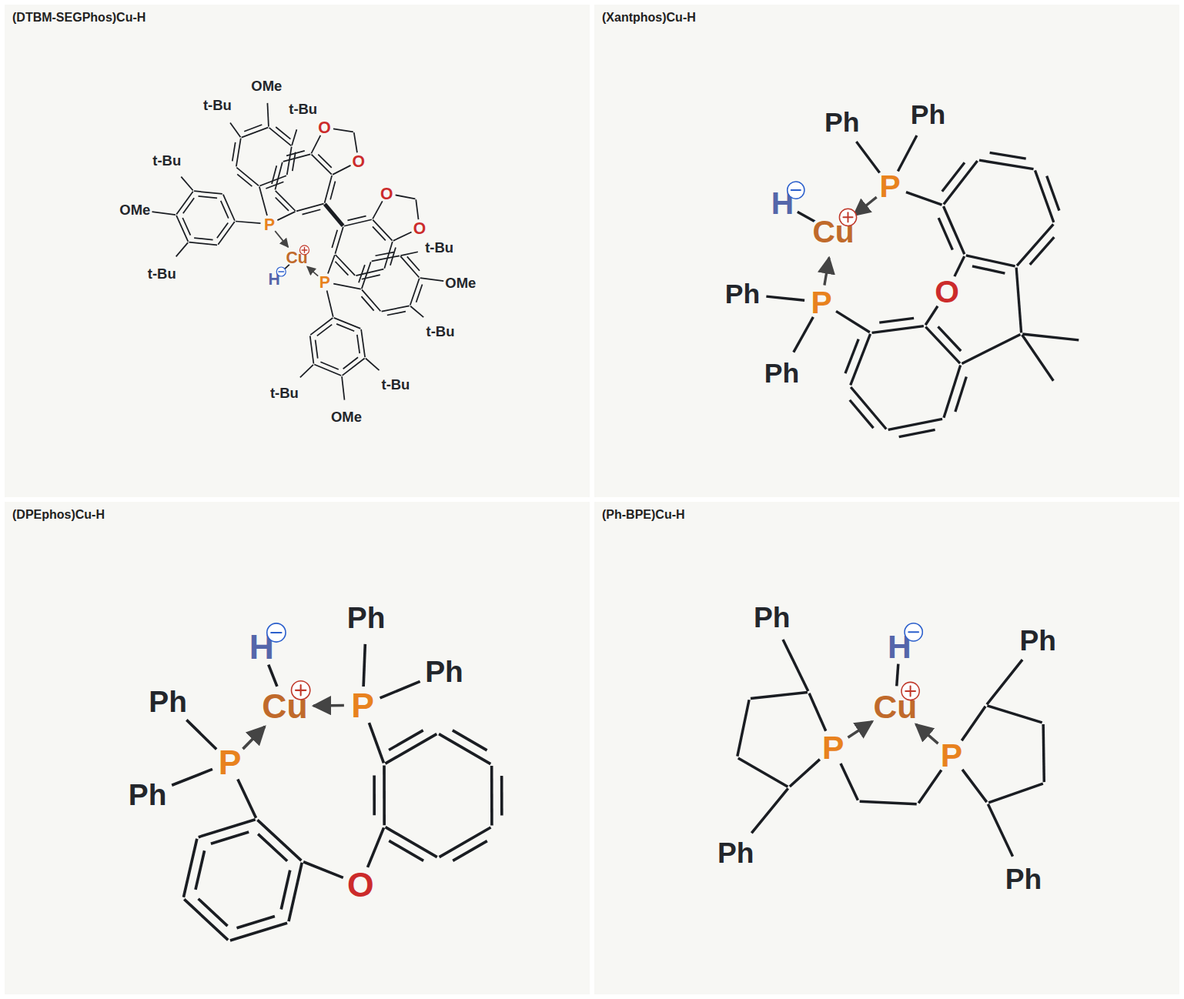
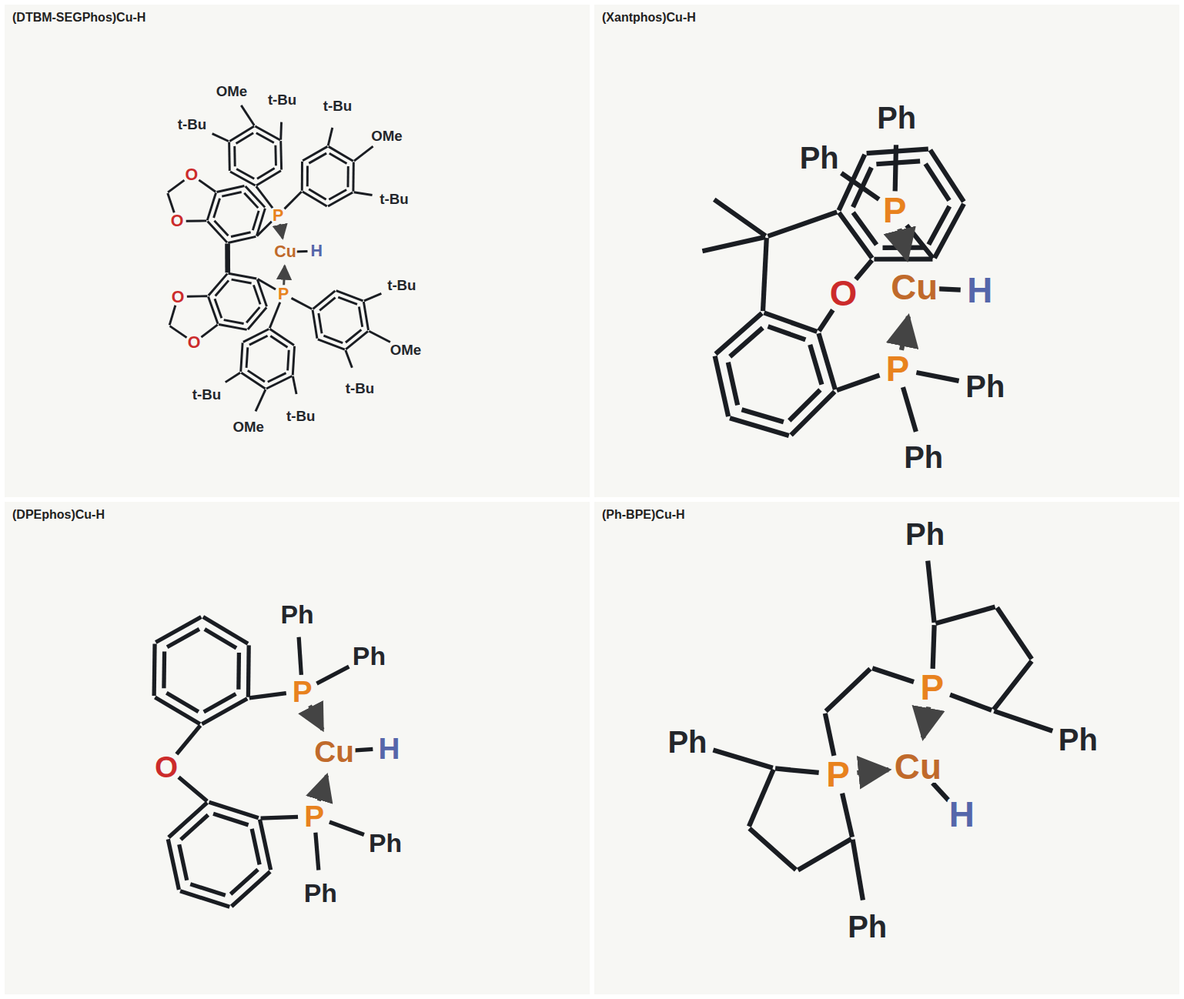
metaldepict: ChemDraw bond style fixes + CuH alignment + stereo wedges
Per reference feedback:
- thicker bonds; double bonds drawn on the INSIDE of each ring (toward centroid)
- Cu-H bond aligned horizontal with H to the right (rigid rotation of all
  coordinates + rebuild, so geometry/overlap are untouched)
- no charges on Cu or H (formal charges only, elsewhere)
- wedge/dash from RDKit on real sp3 stereocentres (e.g. Ph-BPE), assigned AFTER
  the 2D layout so CoordGen placement is never perturbed; biaryl axis stays bold
- generalised panels regenerated for DTBM-SEGPhos, Xantphos, DPEphos, Ph-BPE

Note: creating a separate GitHub repo was attempted but blocked (403, read-only
integration), so work continues in this repo.

Claude-Session: https://claude.ai/code/session_01VEr4Hixwf6YDK6DNqMg3Gi

diff --git a/metaldepict/viewer/data/ph_bpe.js b/metaldepict/viewer/data/ph_bpe.js
@@ -1,2 +1,2 @@
 // auto-generated -- window.MOLECULE for ph_bpe
-window.MOLECULE = {"meta": {"name": "(Ph-BPE)Cu-H", "formula": "C34H37CuP2", "smiles": "c1ccc(C2CCC(c3ccccc3)P2CCP2C(c3ccccc3)CCC2c2ccccc2)cc1", "conformer_method": "rdkit-etkdg", "trex": {"source": "fallback", "metal": "Cu", "ox": 1, "spin": 1, "geometry": "trpl", "geometry_name": "trigonal planar", "cn": 3, "trex_string": "Cu{1} | L=[ SMILES:<DTBM-SEGPhos>, SMILES:[H-] ] | MAP:{ ; 1:<P>, 1:<P>, 2:1 } | G:trpl   (illustrative; real donor indices come from canonical_known_trex)", "chirality": null, "is_chiral": true, "delta_lambda": null, "note": "axial chirality lives in the biaryl backbone, not the metal", "error": "trex perception failed: No metal\u2013ligand bonds detected from XYZ topology.", "canonical": {"available": true, "canonicalised": true, "string": "Cu{+1,S=1} | L=[ SMILES:c1ccc(C2CCC(c3ccccc3)P2CCP2C(c3ccccc3)CCC2c2ccccc2)cc1, SMILES:[H-] ] | MAP:{ 1:15, 1:18, 2:1 }", "cn": 3, "geometry": "trpl"}, "is_chiral_overall": false}, "ideal_bond": {"aromatic": 1.39, "single": 1.5, "double": 1.34, "C-O": 1.43, "C-P": 1.83, "P-metal": 2.25, "H-metal": 1.5}, "n_atoms": 38, "description": "(DTBM-SEGPhos)Cu-H : bidentate phosphine chelate, trigonal Cu(I) hydride"}, "metal": {"id": 36, "el": "Cu", "cn": 3, "donors": [2, 19], "hydride": 37, "geometry": "trpl", "geometry_name": "trigonal planar", "trex_perceived_geometry": "trigonal planar", "trex_perceived_cn": 3}, "atoms": [{"id": 0, "el": "C", "x": -0.9224, "y": -1.1566, "z": 0.301, "charge": 0, "charge_ionic": 0, "aromatic": false, "nH": 2, "sym_class": 25, "role": "backbone", "angle_deg": 109.5, "group_l1": null, "group_l2": null}, {"id": 1, "el": "C", "x": 0.01, "y": -1.49, "z": 0.0885, "charge": 0, "charge_ionic": 0, "aromatic": false, "nH": 2, "sym_class": 25, "role": "backbone", "angle_deg": 109.5, "group_l1": null, "group_l2": null}, {"id": 2, "el": "P", "x": 0.6178, "y": -0.6968, "z": -0.2383, "charge": 0, "charge_ionic": 0, "aromatic": false, "nH": 0, "sym_class": 36, "role": "donor", "angle_deg": 109.5, "group_l1": null, "group_l2": null}, {"id": 3, "el": "C", "x": 1.2246, "y": -1.4954, "z": -0.4009, "charge": 0, "charge_ionic": 0, "aromatic": false, "nH": 1, "sym_class": 31, "role": "backbone", "angle_deg": 109.5, "group_l1": null, "group_l2": null}, {"id": 4, "el": "C", "x": 0.7346, "y": -2.682, "z": -0.3805, "charge": 0, "charge_ionic": 0, "aromatic": true, "nH": 0, "sym_class": 27, "role": "backbone", "angle_deg": 120.0, "group_l1": "g1_ph", "group_l2": null}, {"id": 5, "el": "C", "x": -0.2602, "y": -2.789, "z": -0.2285, "charge": 0, "charge_ionic": 0, "aromatic": true, "nH": 1, "sym_class": 13, "role": "backbone", "angle_deg": 120.0, "group_l1": "g1_ph", "group_l2": null}, {"id": 6, "el": "C", "x": -0.6692, "y": -3.7018, "z": -0.2138, "charge": 0, "charge_ionic": 0, "aromatic": true, "nH": 1, "sym_class": 5, "role": "backbone", "angle_deg": 120.0, "group_l1": "g1_ph", "group_l2": null}, {"id": 7, "el": "C", "x": -0.0796, "y": -4.5094, "z": -0.352, "charge": 0, "charge_ionic": 0, "aromatic": true, "nH": 1, "sym_class": 1, "role": "backbone", "angle_deg": 120.0, "group_l1": "g1_ph", "group_l2": null}, {"id": 8, "el": "C", "x": 0.9152, "y": -4.4064, "z": -0.5069, "charge": 0, "charge_ionic": 0, "aromatic": true, "nH": 1, "sym_class": 5, "role": "backbone", "angle_deg": 120.0, "group_l1": "g1_ph", "group_l2": null}, {"id": 9, "el": "C", "x": 1.32, "y": -3.4918, "z": -0.5233, "charge": 0, "charge_ionic": 0, "aromatic": true, "nH": 1, "sym_class": 13, "role": "backbone", "angle_deg": 120.0, "group_l1": "g1_ph", "group_l2": null}, {"id": 10, "el": "C", "x": 2.174, "y": -1.1592, "z": -0.7818, "charge": 0, "charge_ionic": 0, "aromatic": false, "nH": 2, "sym_class": 21, "role": "backbone", "angle_deg": 109.5, "group_l1": null, "group_l2": null}, {"id": 11, "el": "C", "x": 2.1542, "y": -0.1476, "z": -0.813, "charge": 0, "charge_ionic": 0, "aromatic": false, "nH": 2, "sym_class": 21, "role": "backbone", "angle_deg": 109.5, "group_l1": null, "group_l2": null}, {"id": 12, "el": "C", "x": 1.194, "y": 0.1448, "z": -0.6484, "charge": 0, "charge_ionic": 0, "aromatic": false, "nH": 1, "sym_class": 31, "role": "backbone", "angle_deg": 109.5, "group_l1": null, "group_l2": null}, {"id": 13, "el": "C", "x": 0.4854, "y": 3.0046, "z": -0.5903, "charge": 0, "charge_ionic": 0, "aromatic": true, "nH": 0, "sym_class": 27, "role": "backbone", "angle_deg": 120.0, "group_l1": "g2_ph", "group_l2": null}, {"id": 14, "el": "C", "x": 1.2152, "y": 3.6992, "z": -0.5997, "charge": 0, "charge_ionic": 0, "aromatic": true, "nH": 1, "sym_class": 13, "role": "backbone", "angle_deg": 120.0, "group_l1": "g2_ph", "group_l2": null}, {"id": 15, "el": "C", "x": 0.9814, "y": 4.6752, "z": -0.5453, "charge": 0, "charge_ionic": 0, "aromatic": true, "nH": 1, "sym_class": 5, "role": "backbone", "angle_deg": 120.0, "group_l1": "g2_ph", "group_l2": null}, {"id": 16, "el": "C", "x": 0.025, "y": 4.9588, "z": -0.475, "charge": 0, "charge_ionic": 0, "aromatic": true, "nH": 1, "sym_class": 1, "role": "backbone", "angle_deg": 120.0, "group_l1": "g2_ph", "group_l2": null}, {"id": 17, "el": "C", "x": -0.7018, "y": 4.2708, "z": -0.4617, "charge": 0, "charge_ionic": 0, "aromatic": true, "nH": 1, "sym_class": 5, "role": "backbone", "angle_deg": 120.0, "group_l1": "g2_ph", "group_l2": null}, {"id": 18, "el": "C", "x": -0.468, "y": 3.2906, "z": -0.5196, "charge": 0, "charge_ionic": 0, "aromatic": true, "nH": 1, "sym_class": 13, "role": "backbone", "angle_deg": 120.0, "group_l1": "g2_ph", "group_l2": null}, {"id": 19, "el": "P", "x": -0.8888, "y": -0.1602, "z": 0.2711, "charge": 0, "charge_ionic": 0, "aromatic": false, "nH": 0, "sym_class": 36, "role": "donor", "angle_deg": 109.5, "group_l1": null, "group_l2": null}, {"id": 20, "el": "C", "x": -0.7606, "y": 0.8446, "z": 0.6798, "charge": 0, "charge_ionic": 0, "aromatic": false, "nH": 1, "sym_class": 31, "role": "backbone", "angle_deg": 109.5, "group_l1": null, "group_l2": null}, {"id": 21, "el": "C", "x": 1.3726, "y": 2.0604, "z": 0.7067, "charge": 0, "charge_ionic": 0, "aromatic": true, "nH": 0, "sym_class": 27, "role": "backbone", "angle_deg": 120.0, "group_l1": "g3_ph", "group_l2": null}, {"id": 22, "el": "C", "x": 2.2428, "y": 1.5676, "z": 0.5126, "charge": 0, "charge_ionic": 0, "aromatic": true, "nH": 1, "sym_class": 13, "role": "backbone", "angle_deg": 120.0, "group_l1": "g3_ph", "group_l2": null}, {"id": 23, "el": "C", "x": 3.1098, "y": 2.0766, "z": 0.524, "charge": 0, "charge_ionic": 0, "aromatic": true, "nH": 1, "sym_class": 5, "role": "backbone", "angle_deg": 120.0, "group_l1": "g3_ph", "group_l2": null}, {"id": 24, "el": "C", "x": 3.1068, "y": 3.0778, "z": 0.7246, "charge": 0, "charge_ionic": 0, "aromatic": true, "nH": 1, "sym_class": 1, "role": "backbone", "angle_deg": 120.0, "group_l1": "g3_ph", "group_l2": null}, {"id": 25, "el": "C", "x": 2.2356, "y": 3.5686, "z": 0.9168, "charge": 0, "charge_ionic": 0, "aromatic": true, "nH": 1, "sym_class": 5, "role": "backbone", "angle_deg": 120.0, "group_l1": "g3_ph", "group_l2": null}, {"id": 26, "el": "C", "x": 1.3674, "y": 3.0564, "z": 0.9094, "charge": 0, "charge_ionic": 0, "aromatic": true, "nH": 1, "sym_class": 13, "role": "backbone", "angle_deg": 120.0, "group_l1": "g3_ph", "group_l2": null}, {"id": 27, "el": "C", "x": -1.6694, "y": 1.2654, "z": 1.0, "charge": 0, "charge_ionic": 0, "aromatic": false, "nH": 2, "sym_class": 21, "role": "backbone", "angle_deg": 109.5, "group_l1": null, "group_l2": null}, {"id": 28, "el": "C", "x": -2.355, "y": 0.5262, "z": 0.8803, "charge": 0, "charge_ionic": 0, "aromatic": false, "nH": 2, "sym_class": 21, "role": "backbone", "angle_deg": 109.5, "group_l1": null, "group_l2": null}, {"id": 29, "el": "C", "x": -1.8716, "y": -0.3536, "z": 0.5145, "charge": 0, "charge_ionic": 0, "aromatic": false, "nH": 1, "sym_class": 31, "role": "backbone", "angle_deg": 109.5, "group_l1": null, "group_l2": null}, {"id": 30, "el": "C", "x": -2.2812, "y": -1.3956, "z": 0.3025, "charge": 0, "charge_ionic": 0, "aromatic": true, "nH": 0, "sym_class": 27, "role": "backbone", "angle_deg": 120.0, "group_l1": "g4_ph", "group_l2": null}, {"id": 31, "el": "C", "x": -3.2698, "y": -1.5438, "z": 0.2615, "charge": 0, "charge_ionic": 0, "aromatic": true, "nH": 1, "sym_class": 13, "role": "backbone", "angle_deg": 120.0, "group_l1": "g4_ph", "group_l2": null}, {"id": 32, "el": "C", "x": -3.6402, "y": -2.4728, "z": 0.0721, "charge": 0, "charge_ionic": 0, "aromatic": true, "nH": 1, "sym_class": 5, "role": "backbone", "angle_deg": 120.0, "group_l1": "g4_ph", "group_l2": null}, {"id": 33, "el": "C", "x": -3.0182, "y": -3.2554, "z": -0.0769, "charge": 0, "charge_ionic": 0, "aromatic": true, "nH": 1, "sym_class": 1, "role": "backbone", "angle_deg": 120.0, "group_l1": "g4_ph", "group_l2": null}, {"id": 34, "el": "C", "x": -2.0284, "y": -3.1114, "z": -0.035, "charge": 0, "charge_ionic": 0, "aromatic": true, "nH": 1, "sym_class": 5, "role": "backbone", "angle_deg": 120.0, "group_l1": "g4_ph", "group_l2": null}, {"id": 35, "el": "C", "x": -1.6616, "y": -2.1808, "z": 0.1551, "charge": 0, "charge_ionic": 0, "aromatic": true, "nH": 1, "sym_class": 13, "role": "backbone", "angle_deg": 120.0, "group_l1": "g4_ph", "group_l2": null}, {"id": 36, "el": "Cu", "x": 0.0606, "y": 0.1134, "z": -0.2966, "charge": 0, "charge_ionic": 1, "aromatic": false, "nH": 0, "sym_class": 35, "role": "metal", "angle_deg": 120.0, "group_l1": null, "group_l2": null}, {"id": 37, "el": "H", "x": 0.347, "y": 0.6778, "z": -0.133, "charge": 0, "charge_ionic": -1, "aromatic": false, "nH": 0, "sym_class": 0, "role": "hydride", "angle_deg": 120.0, "group_l1": null, "group_l2": null}], "bonds": [{"a": 0, "b": 1, "a0": 0, "order": 1.0, "type": "single", "wedge": "none", "axis": false}, {"a": 1, "b": 2, "a0": 1, "order": 1.0, "type": "single", "wedge": "none", "axis": false}, {"a": 2, "b": 3, "a0": 2, "order": 1.0, "type": "single", "wedge": "none", "axis": false}, {"a": 3, "b": 4, "a0": 3, "order": 1.0, "type": "single", "wedge": "none", "axis": false}, {"a": 4, "b": 5, "a0": 4, "order": 1.5, "type": "aromatic", "wedge": "none", "axis": false}, {"a": 5, "b": 6, "a0": 5, "order": 1.5, "type": "aromatic", "wedge": "none", "axis": false}, {"a": 6, "b": 7, "a0": 6, "order": 1.5, "type": "aromatic", "wedge": "none", "axis": false}, {"a": 7, "b": 8, "a0": 7, "order": 1.5, "type": "aromatic", "wedge": "none", "axis": false}, {"a": 8, "b": 9, "a0": 8, "order": 1.5, "type": "aromatic", "wedge": "none", "axis": false}, {"a": 3, "b": 10, "a0": 3, "order": 1.0, "type": "single", "wedge": "none", "axis": false}, {"a": 10, "b": 11, "a0": 10, "order": 1.0, "type": "single", "wedge": "none", "axis": false}, {"a": 11, "b": 12, "a0": 11, "order": 1.0, "type": "single", "wedge": "none", "axis": false}, {"a": 12, "b": 13, "a0": 12, "order": 1.0, "type": "single", "wedge": "none", "axis": false}, {"a": 13, "b": 14, "a0": 13, "order": 1.5, "type": "aromatic", "wedge": "none", "axis": false}, {"a": 14, "b": 15, "a0": 14, "order": 1.5, "type": "aromatic", "wedge": "none", "axis": false}, {"a": 15, "b": 16, "a0": 15, "order": 1.5, "type": "aromatic", "wedge": "none", "axis": false}, {"a": 16, "b": 17, "a0": 16, "order": 1.5, "type": "aromatic", "wedge": "none", "axis": false}, {"a": 17, "b": 18, "a0": 17, "order": 1.5, "type": "aromatic", "wedge": "none", "axis": false}, {"a": 0, "b": 19, "a0": 0, "order": 1.0, "type": "single", "wedge": "none", "axis": false}, {"a": 19, "b": 20, "a0": 19, "order": 1.0, "type": "single", "wedge": "none", "axis": false}, {"a": 20, "b": 21, "a0": 20, "order": 1.0, "type": "single", "wedge": "none", "axis": false}, {"a": 21, "b": 22, "a0": 21, "order": 1.5, "type": "aromatic", "wedge": "none", "axis": false}, {"a": 22, "b": 23, "a0": 22, "order": 1.5, "type": "aromatic", "wedge": "none", "axis": false}, {"a": 23, "b": 24, "a0": 23, "order": 1.5, "type": "aromatic", "wedge": "none", "axis": false}, {"a": 24, "b": 25, "a0": 24, "order": 1.5, "type": "aromatic", "wedge": "none", "axis": false}, {"a": 25, "b": 26, "a0": 25, "order": 1.5, "type": "aromatic", "wedge": "none", "axis": false}, {"a": 20, "b": 27, "a0": 20, "order": 1.0, "type": "single", "wedge": "none", "axis": false}, {"a": 27, "b": 28, "a0": 27, "order": 1.0, "type": "single", "wedge": "none", "axis": false}, {"a": 28, "b": 29, "a0": 28, "order": 1.0, "type": "single", "wedge": "none", "axis": false}, {"a": 29, "b": 30, "a0": 29, "order": 1.0, "type": "single", "wedge": "none", "axis": false}, {"a": 30, "b": 31, "a0": 30, "order": 1.5, "type": "aromatic", "wedge": "none", "axis": false}, {"a": 31, "b": 32, "a0": 31, "order": 1.5, "type": "aromatic", "wedge": "none", "axis": false}, {"a": 32, "b": 33, "a0": 32, "order": 1.5, "type": "aromatic", "wedge": "none", "axis": false}, {"a": 33, "b": 34, "a0": 33, "order": 1.5, "type": "aromatic", "wedge": "none", "axis": false}, {"a": 34, "b": 35, "a0": 34, "order": 1.5, "type": "aromatic", "wedge": "none", "axis": false}, {"a": 12, "b": 2, "a0": 12, "order": 1.0, "type": "single", "wedge": "none", "axis": false}, {"a": 18, "b": 13, "a0": 18, "order": 1.5, "type": "aromatic", "wedge": "none", "axis": false}, {"a": 29, "b": 19, "a0": 29, "order": 1.0, "type": "single", "wedge": "none", "axis": false}, {"a": 35, "b": 30, "a0": 35, "order": 1.5, "type": "aromatic", "wedge": "none", "axis": false}, {"a": 9, "b": 4, "a0": 9, "order": 1.5, "type": "aromatic", "wedge": "none", "axis": false}, {"a": 26, "b": 21, "a0": 26, "order": 1.5, "type": "aromatic", "wedge": "none", "axis": false}, {"a": 36, "b": 37, "a0": 36, "order": 1.0, "type": "single", "wedge": "none", "axis": false}, {"a": 2, "b": 36, "a0": 2, "order": 1.0, "type": "dative", "wedge": "none", "axis": false}, {"a": 19, "b": 36, "a0": 19, "order": 1.0, "type": "dative", "wedge": "none", "axis": false}], "rings": [[10, 3, 2, 12, 11], [27, 20, 19, 29, 28], [5, 4, 9, 8, 7, 6], [14, 13, 18, 17, 16, 15], [22, 21, 26, 25, 24, 23], [31, 30, 35, 34, 33, 32]], "groups": [{"id": "g1_ph", "label": "Ph", "atoms": [4, 5, 6, 7, 8, 9], "attach": 3, "anchor": 4, "level": 1, "kind": "ph"}, {"id": "g2_ph", "label": "Ph", "atoms": [13, 14, 15, 16, 17, 18], "attach": 12, "anchor": 13, "level": 1, "kind": "ph"}, {"id": "g3_ph", "label": "Ph", "atoms": [21, 22, 23, 24, 25, 26], "attach": 20, "anchor": 21, "level": 1, "kind": "ph"}, {"id": "g4_ph", "label": "Ph", "atoms": [30, 31, 32, 33, 34, 35], "attach": 29, "anchor": 30, "level": 1, "kind": "ph"}], "cip": {}, "symmetry": {"classes": [[0, 1], [2, 19], [3, 12, 20, 29], [4, 13, 21, 30], [5, 9, 14, 18, 22, 26, 31, 35], [6, 8, 15, 17, 23, 25, 32, 34], [7, 16, 24, 33], [10, 11, 27, 28]], "mirror_pairs": [[0, 1], [2, 19]], "axis": {"p1": [0.06057297655054028, 0.11336217261649444], "p2": [-0.0016825826819596558, -0.003148949239347449]}, "point_group_hint": "C2"}};
+window.MOLECULE = {"meta": {"name": "(Ph-BPE)Cu-H", "formula": "C34H37CuP2", "smiles": "c1ccc(C2CCC(c3ccccc3)P2CCP2C(c3ccccc3)CCC2c2ccccc2)cc1", "conformer_method": "rdkit-etkdg", "trex": {"source": "fallback", "metal": "Cu", "ox": 1, "spin": 1, "geometry": "trpl", "geometry_name": "trigonal planar", "cn": 3, "trex_string": "Cu{1} | L=[ SMILES:<DTBM-SEGPhos>, SMILES:[H-] ] | MAP:{ ; 1:<P>, 1:<P>, 2:1 } | G:trpl   (illustrative; real donor indices come from canonical_known_trex)", "chirality": null, "is_chiral": true, "delta_lambda": null, "note": "axial chirality lives in the biaryl backbone, not the metal", "error": "trex perception failed: No metal\u2013ligand bonds detected from XYZ topology.", "canonical": {"available": true, "canonicalised": true, "string": "Cu{+1,S=1} | L=[ SMILES:c1ccc(C2CCC(c3ccccc3)P2CCP2C(c3ccccc3)CCC2c2ccccc2)cc1, SMILES:[H-] ] | MAP:{ 1:15, 1:18, 2:1 }", "cn": 3, "geometry": "trpl"}, "is_chiral_overall": false}, "ideal_bond": {"aromatic": 1.39, "single": 1.5, "double": 1.34, "C-O": 1.43, "C-P": 1.83, "P-metal": 2.25, "H-metal": 1.5}, "n_atoms": 38, "description": "(DTBM-SEGPhos)Cu-H : bidentate phosphine chelate, trigonal Cu(I) hydride"}, "metal": {"id": 36, "el": "Cu", "cn": 3, "donors": [2, 19], "hydride": 37, "geometry": "trpl", "geometry_name": "trigonal planar", "trex_perceived_geometry": "trigonal planar", "trex_perceived_cn": 3}, "atoms": [{"id": 0, "el": "C", "x": -0.9224, "y": -1.1566, "z": 0.301, "charge": 0, "charge_ionic": 0, "aromatic": false, "nH": 2, "sym_class": 26, "role": "backbone", "angle_deg": 109.5, "group_l1": null, "group_l2": null}, {"id": 1, "el": "C", "x": 0.01, "y": -1.49, "z": 0.0885, "charge": 0, "charge_ionic": 0, "aromatic": false, "nH": 2, "sym_class": 25, "role": "backbone", "angle_deg": 109.5, "group_l1": null, "group_l2": null}, {"id": 2, "el": "P", "x": 0.6178, "y": -0.6968, "z": -0.2383, "charge": 0, "charge_ionic": 0, "aromatic": false, "nH": 0, "sym_class": 36, "role": "donor", "angle_deg": 109.5, "group_l1": null, "group_l2": null}, {"id": 3, "el": "C", "x": 1.2246, "y": -1.4954, "z": -0.4009, "charge": 0, "charge_ionic": 0, "aromatic": false, "nH": 1, "sym_class": 31, "role": "backbone", "angle_deg": 109.5, "group_l1": null, "group_l2": null}, {"id": 4, "el": "C", "x": 0.7346, "y": -2.682, "z": -0.3805, "charge": 0, "charge_ionic": 0, "aromatic": true, "nH": 0, "sym_class": 27, "role": "backbone", "angle_deg": 120.0, "group_l1": "g1_ph", "group_l2": null}, {"id": 5, "el": "C", "x": -0.2602, "y": -2.789, "z": -0.2285, "charge": 0, "charge_ionic": 0, "aromatic": true, "nH": 1, "sym_class": 13, "role": "backbone", "angle_deg": 120.0, "group_l1": "g1_ph", "group_l2": null}, {"id": 6, "el": "C", "x": -0.6692, "y": -3.7018, "z": -0.2138, "charge": 0, "charge_ionic": 0, "aromatic": true, "nH": 1, "sym_class": 5, "role": "backbone", "angle_deg": 120.0, "group_l1": "g1_ph", "group_l2": null}, {"id": 7, "el": "C", "x": -0.0796, "y": -4.5094, "z": -0.352, "charge": 0, "charge_ionic": 0, "aromatic": true, "nH": 1, "sym_class": 1, "role": "backbone", "angle_deg": 120.0, "group_l1": "g1_ph", "group_l2": null}, {"id": 8, "el": "C", "x": 0.9152, "y": -4.4064, "z": -0.5069, "charge": 0, "charge_ionic": 0, "aromatic": true, "nH": 1, "sym_class": 5, "role": "backbone", "angle_deg": 120.0, "group_l1": "g1_ph", "group_l2": null}, {"id": 9, "el": "C", "x": 1.32, "y": -3.4918, "z": -0.5233, "charge": 0, "charge_ionic": 0, "aromatic": true, "nH": 1, "sym_class": 13, "role": "backbone", "angle_deg": 120.0, "group_l1": "g1_ph", "group_l2": null}, {"id": 10, "el": "C", "x": 2.174, "y": -1.1592, "z": -0.7818, "charge": 0, "charge_ionic": 0, "aromatic": false, "nH": 2, "sym_class": 21, "role": "backbone", "angle_deg": 109.5, "group_l1": null, "group_l2": null}, {"id": 11, "el": "C", "x": 2.1542, "y": -0.1476, "z": -0.813, "charge": 0, "charge_ionic": 0, "aromatic": false, "nH": 2, "sym_class": 21, "role": "backbone", "angle_deg": 109.5, "group_l1": null, "group_l2": null}, {"id": 12, "el": "C", "x": 1.194, "y": 0.1448, "z": -0.6484, "charge": 0, "charge_ionic": 0, "aromatic": false, "nH": 1, "sym_class": 31, "role": "backbone", "angle_deg": 109.5, "group_l1": null, "group_l2": null}, {"id": 13, "el": "C", "x": 0.4854, "y": 3.0046, "z": -0.5903, "charge": 0, "charge_ionic": 0, "aromatic": true, "nH": 0, "sym_class": 27, "role": "backbone", "angle_deg": 120.0, "group_l1": "g2_ph", "group_l2": null}, {"id": 14, "el": "C", "x": 1.2152, "y": 3.6992, "z": -0.5997, "charge": 0, "charge_ionic": 0, "aromatic": true, "nH": 1, "sym_class": 13, "role": "backbone", "angle_deg": 120.0, "group_l1": "g2_ph", "group_l2": null}, {"id": 15, "el": "C", "x": 0.9814, "y": 4.6752, "z": -0.5453, "charge": 0, "charge_ionic": 0, "aromatic": true, "nH": 1, "sym_class": 5, "role": "backbone", "angle_deg": 120.0, "group_l1": "g2_ph", "group_l2": null}, {"id": 16, "el": "C", "x": 0.025, "y": 4.9588, "z": -0.475, "charge": 0, "charge_ionic": 0, "aromatic": true, "nH": 1, "sym_class": 1, "role": "backbone", "angle_deg": 120.0, "group_l1": "g2_ph", "group_l2": null}, {"id": 17, "el": "C", "x": -0.7018, "y": 4.2708, "z": -0.4617, "charge": 0, "charge_ionic": 0, "aromatic": true, "nH": 1, "sym_class": 5, "role": "backbone", "angle_deg": 120.0, "group_l1": "g2_ph", "group_l2": null}, {"id": 18, "el": "C", "x": -0.468, "y": 3.2906, "z": -0.5196, "charge": 0, "charge_ionic": 0, "aromatic": true, "nH": 1, "sym_class": 13, "role": "backbone", "angle_deg": 120.0, "group_l1": "g2_ph", "group_l2": null}, {"id": 19, "el": "P", "x": -0.8888, "y": -0.1602, "z": 0.2711, "charge": 0, "charge_ionic": 0, "aromatic": false, "nH": 0, "sym_class": 37, "role": "donor", "angle_deg": 109.5, "group_l1": null, "group_l2": null}, {"id": 20, "el": "C", "x": -0.7606, "y": 0.8446, "z": 0.6798, "charge": 0, "charge_ionic": 0, "aromatic": false, "nH": 1, "sym_class": 33, "role": "backbone", "angle_deg": 109.5, "group_l1": null, "group_l2": null}, {"id": 21, "el": "C", "x": 1.3726, "y": 2.0604, "z": 0.7067, "charge": 0, "charge_ionic": 0, "aromatic": true, "nH": 0, "sym_class": 29, "role": "backbone", "angle_deg": 120.0, "group_l1": "g3_ph", "group_l2": null}, {"id": 22, "el": "C", "x": 2.2428, "y": 1.5676, "z": 0.5126, "charge": 0, "charge_ionic": 0, "aromatic": true, "nH": 1, "sym_class": 17, "role": "backbone", "angle_deg": 120.0, "group_l1": "g3_ph", "group_l2": null}, {"id": 23, "el": "C", "x": 3.1098, "y": 2.0766, "z": 0.524, "charge": 0, "charge_ionic": 0, "aromatic": true, "nH": 1, "sym_class": 9, "role": "backbone", "angle_deg": 120.0, "group_l1": "g3_ph", "group_l2": null}, {"id": 24, "el": "C", "x": 3.1068, "y": 3.0778, "z": 0.7246, "charge": 0, "charge_ionic": 0, "aromatic": true, "nH": 1, "sym_class": 3, "role": "backbone", "angle_deg": 120.0, "group_l1": "g3_ph", "group_l2": null}, {"id": 25, "el": "C", "x": 2.2356, "y": 3.5686, "z": 0.9168, "charge": 0, "charge_ionic": 0, "aromatic": true, "nH": 1, "sym_class": 9, "role": "backbone", "angle_deg": 120.0, "group_l1": "g3_ph", "group_l2": null}, {"id": 26, "el": "C", "x": 1.3674, "y": 3.0564, "z": 0.9094, "charge": 0, "charge_ionic": 0, "aromatic": true, "nH": 1, "sym_class": 17, "role": "backbone", "angle_deg": 120.0, "group_l1": "g3_ph", "group_l2": null}, {"id": 27, "el": "C", "x": -1.6694, "y": 1.2654, "z": 1.0, "charge": 0, "charge_ionic": 0, "aromatic": false, "nH": 2, "sym_class": 23, "role": "backbone", "angle_deg": 109.5, "group_l1": null, "group_l2": null}, {"id": 28, "el": "C", "x": -2.355, "y": 0.5262, "z": 0.8803, "charge": 0, "charge_ionic": 0, "aromatic": false, "nH": 2, "sym_class": 23, "role": "backbone", "angle_deg": 109.5, "group_l1": null, "group_l2": null}, {"id": 29, "el": "C", "x": -1.8716, "y": -0.3536, "z": 0.5145, "charge": 0, "charge_ionic": 0, "aromatic": false, "nH": 1, "sym_class": 33, "role": "backbone", "angle_deg": 109.5, "group_l1": null, "group_l2": null}, {"id": 30, "el": "C", "x": -2.2812, "y": -1.3956, "z": 0.3025, "charge": 0, "charge_ionic": 0, "aromatic": true, "nH": 0, "sym_class": 29, "role": "backbone", "angle_deg": 120.0, "group_l1": "g4_ph", "group_l2": null}, {"id": 31, "el": "C", "x": -3.2698, "y": -1.5438, "z": 0.2615, "charge": 0, "charge_ionic": 0, "aromatic": true, "nH": 1, "sym_class": 17, "role": "backbone", "angle_deg": 120.0, "group_l1": "g4_ph", "group_l2": null}, {"id": 32, "el": "C", "x": -3.6402, "y": -2.4728, "z": 0.0721, "charge": 0, "charge_ionic": 0, "aromatic": true, "nH": 1, "sym_class": 9, "role": "backbone", "angle_deg": 120.0, "group_l1": "g4_ph", "group_l2": null}, {"id": 33, "el": "C", "x": -3.0182, "y": -3.2554, "z": -0.0769, "charge": 0, "charge_ionic": 0, "aromatic": true, "nH": 1, "sym_class": 3, "role": "backbone", "angle_deg": 120.0, "group_l1": "g4_ph", "group_l2": null}, {"id": 34, "el": "C", "x": -2.0284, "y": -3.1114, "z": -0.035, "charge": 0, "charge_ionic": 0, "aromatic": true, "nH": 1, "sym_class": 9, "role": "backbone", "angle_deg": 120.0, "group_l1": "g4_ph", "group_l2": null}, {"id": 35, "el": "C", "x": -1.6616, "y": -2.1808, "z": 0.1551, "charge": 0, "charge_ionic": 0, "aromatic": true, "nH": 1, "sym_class": 17, "role": "backbone", "angle_deg": 120.0, "group_l1": "g4_ph", "group_l2": null}, {"id": 36, "el": "Cu", "x": 0.0606, "y": 0.1134, "z": -0.2966, "charge": 0, "charge_ionic": 1, "aromatic": false, "nH": 0, "sym_class": 35, "role": "metal", "angle_deg": 120.0, "group_l1": null, "group_l2": null}, {"id": 37, "el": "H", "x": 0.347, "y": 0.6778, "z": -0.133, "charge": 0, "charge_ionic": -1, "aromatic": false, "nH": 0, "sym_class": 0, "role": "hydride", "angle_deg": 120.0, "group_l1": null, "group_l2": null}], "bonds": [{"a": 0, "b": 1, "a0": 0, "order": 1.0, "type": "single", "wedge": "none", "axis": false}, {"a": 1, "b": 2, "a0": 1, "order": 1.0, "type": "single", "wedge": "none", "axis": false}, {"a": 2, "b": 3, "a0": 2, "order": 1.0, "type": "single", "wedge": "none", "axis": false}, {"a": 3, "b": 4, "a0": 3, "order": 1.0, "type": "single", "wedge": "down", "axis": false}, {"a": 4, "b": 5, "a0": 4, "order": 1.5, "type": "aromatic", "wedge": "none", "axis": false}, {"a": 5, "b": 6, "a0": 5, "order": 1.5, "type": "aromatic", "wedge": "none", "axis": false}, {"a": 6, "b": 7, "a0": 6, "order": 1.5, "type": "aromatic", "wedge": "none", "axis": false}, {"a": 7, "b": 8, "a0": 7, "order": 1.5, "type": "aromatic", "wedge": "none", "axis": false}, {"a": 8, "b": 9, "a0": 8, "order": 1.5, "type": "aromatic", "wedge": "none", "axis": false}, {"a": 3, "b": 10, "a0": 3, "order": 1.0, "type": "single", "wedge": "none", "axis": false}, {"a": 10, "b": 11, "a0": 10, "order": 1.0, "type": "single", "wedge": "none", "axis": false}, {"a": 11, "b": 12, "a0": 11, "order": 1.0, "type": "single", "wedge": "none", "axis": false}, {"a": 12, "b": 13, "a0": 12, "order": 1.0, "type": "single", "wedge": "up", "axis": false}, {"a": 13, "b": 14, "a0": 13, "order": 1.5, "type": "aromatic", "wedge": "none", "axis": false}, {"a": 14, "b": 15, "a0": 14, "order": 1.5, "type": "aromatic", "wedge": "none", "axis": false}, {"a": 15, "b": 16, "a0": 15, "order": 1.5, "type": "aromatic", "wedge": "none", "axis": false}, {"a": 16, "b": 17, "a0": 16, "order": 1.5, "type": "aromatic", "wedge": "none", "axis": false}, {"a": 17, "b": 18, "a0": 17, "order": 1.5, "type": "aromatic", "wedge": "none", "axis": false}, {"a": 0, "b": 19, "a0": 0, "order": 1.0, "type": "single", "wedge": "none", "axis": false}, {"a": 19, "b": 20, "a0": 19, "order": 1.0, "type": "single", "wedge": "none", "axis": false}, {"a": 20, "b": 21, "a0": 20, "order": 1.0, "type": "single", "wedge": "down", "axis": false}, {"a": 21, "b": 22, "a0": 21, "order": 1.5, "type": "aromatic", "wedge": "none", "axis": false}, {"a": 22, "b": 23, "a0": 22, "order": 1.5, "type": "aromatic", "wedge": "none", "axis": false}, {"a": 23, "b": 24, "a0": 23, "order": 1.5, "type": "aromatic", "wedge": "none", "axis": false}, {"a": 24, "b": 25, "a0": 24, "order": 1.5, "type": "aromatic", "wedge": "none", "axis": false}, {"a": 25, "b": 26, "a0": 25, "order": 1.5, "type": "aromatic", "wedge": "none", "axis": false}, {"a": 20, "b": 27, "a0": 20, "order": 1.0, "type": "single", "wedge": "none", "axis": false}, {"a": 27, "b": 28, "a0": 27, "order": 1.0, "type": "single", "wedge": "none", "axis": false}, {"a": 28, "b": 29, "a0": 28, "order": 1.0, "type": "single", "wedge": "none", "axis": false}, {"a": 29, "b": 30, "a0": 29, "order": 1.0, "type": "single", "wedge": "up", "axis": false}, {"a": 30, "b": 31, "a0": 30, "order": 1.5, "type": "aromatic", "wedge": "none", "axis": false}, {"a": 31, "b": 32, "a0": 31, "order": 1.5, "type": "aromatic", "wedge": "none", "axis": false}, {"a": 32, "b": 33, "a0": 32, "order": 1.5, "type": "aromatic", "wedge": "none", "axis": false}, {"a": 33, "b": 34, "a0": 33, "order": 1.5, "type": "aromatic", "wedge": "none", "axis": false}, {"a": 34, "b": 35, "a0": 34, "order": 1.5, "type": "aromatic", "wedge": "none", "axis": false}, {"a": 12, "b": 2, "a0": 12, "order": 1.0, "type": "single", "wedge": "none", "axis": false}, {"a": 18, "b": 13, "a0": 18, "order": 1.5, "type": "aromatic", "wedge": "none", "axis": false}, {"a": 29, "b": 19, "a0": 29, "order": 1.0, "type": "single", "wedge": "none", "axis": false}, {"a": 35, "b": 30, "a0": 35, "order": 1.5, "type": "aromatic", "wedge": "none", "axis": false}, {"a": 9, "b": 4, "a0": 9, "order": 1.5, "type": "aromatic", "wedge": "none", "axis": false}, {"a": 26, "b": 21, "a0": 26, "order": 1.5, "type": "aromatic", "wedge": "none", "axis": false}, {"a": 36, "b": 37, "a0": 36, "order": 1.0, "type": "single", "wedge": "none", "axis": false}, {"a": 2, "b": 36, "a0": 2, "order": 1.0, "type": "dative", "wedge": "none", "axis": false}, {"a": 19, "b": 36, "a0": 19, "order": 1.0, "type": "dative", "wedge": "none", "axis": false}], "rings": [[10, 3, 2, 12, 11], [27, 20, 19, 29, 28], [5, 4, 9, 8, 7, 6], [14, 13, 18, 17, 16, 15], [22, 21, 26, 25, 24, 23], [31, 30, 35, 34, 33, 32]], "groups": [{"id": "g1_ph", "label": "Ph", "atoms": [4, 5, 6, 7, 8, 9], "attach": 3, "anchor": 4, "level": 1, "kind": "ph"}, {"id": "g2_ph", "label": "Ph", "atoms": [13, 14, 15, 16, 17, 18], "attach": 12, "anchor": 13, "level": 1, "kind": "ph"}, {"id": "g3_ph", "label": "Ph", "atoms": [21, 22, 23, 24, 25, 26], "attach": 20, "anchor": 21, "level": 1, "kind": "ph"}, {"id": "g4_ph", "label": "Ph", "atoms": [30, 31, 32, 33, 34, 35], "attach": 29, "anchor": 30, "level": 1, "kind": "ph"}], "cip": {}, "symmetry": {"classes": [[3, 12], [4, 13], [5, 9, 14, 18], [6, 8, 15, 17], [7, 16], [10, 11], [20, 29], [21, 30], [22, 26, 31, 35], [23, 25, 32, 34], [24, 33], [27, 28]], "mirror_pairs": [[3, 12], [4, 13], [7, 16], [10, 11], [20, 29], [21, 30], [24, 33], [27, 28]], "axis": {"p1": [0.06057297655054028, 0.11336217261649444], "p2": [-0.0016825826819596558, -0.003148949239347449]}, "point_group_hint": "C2"}};

diff --git a/metaldepict/viewer/viewer.js b/metaldepict/viewer/viewer.js
@@ -318,6 +318,21 @@
     relaxBoost = 1.0;
   }
 
+  // rotate the whole assembly so the Cu-H bond is horizontal with H to the right
+  function alignCuH() {
+    if (metalId == null || hydrideId == null) return;
+    const cu = atom.get(metalId), h = atom.get(hydrideId);
+    if (!cu || !h) return;
+    const hx = h.x - cu.x, hy = h.y - cu.y;
+    if (Math.hypot(hx, hy) < 1e-6) return;
+    const ang = -Math.atan2(hy, hx), c = Math.cos(ang), s = Math.sin(ang);
+    const px = cu.x, py = cu.y;
+    const rot = p => { const dx = p.x - px, dy = p.y - py;
+      p.x = px + dx * c - dy * s; p.y = py + dx * s + dy * c; };
+    atom.forEach(rot); sup.forEach(rot);
+    buildView();   // rebuild rigid bodies from the rotated coordinates
+  }
+
   // ---------------------------------------------------------------- view xform
   let scale = 40, tx = 0, ty = 0;
   function W() { return svg.clientWidth || 900; }
@@ -364,12 +379,28 @@
     // bold ~0.13, atom font ~0.55, label gap ~0.32). ----
     const BL = L0 * scale;
     curBL = BL;
-    const SW = Math.max(1.0, 0.045 * BL);
-    const BOLDW = Math.max(2.6, 0.13 * BL);
-    const DGAP = 0.16 * BL;
+    const SW = Math.max(1.6, 0.075 * BL);      // thicker bonds
+    const BOLDW = Math.max(3.4, 0.17 * BL);
+    const DGAP = 0.18 * BL;
     const FONT = Math.max(9, 0.55 * BL);
     const SFONT = Math.max(9, 0.48 * BL);
-    curHalo = Math.max(2.5, 0.11 * BL);
+    curHalo = Math.max(2.5, 0.12 * BL);
+
+    // inside direction (toward ring interior) for each ring bond, for ChemDraw
+    // double bonds drawn on the inside of the ring
+    const ringInside = new Map();
+    (M.rings || []).forEach(ring => {
+      const pts = ring.map(id => atom.get(id));
+      if (pts.some(p => !p)) return;
+      let cx = 0, cy = 0; pts.forEach(p => { cx += p.x; cy += p.y; }); cx /= pts.length; cy /= pts.length;
+      for (let k = 0; k < ring.length; k++) {
+        const a = ring[k], b = ring[(k + 1) % ring.length];
+        const pa = atom.get(a), pb = atom.get(b);
+        let ix = cx - (pa.x + pb.x) / 2, iy = cy - (pa.y + pb.y) / 2;
+        const il = Math.hypot(ix, iy) || 1;
+        ringInside.set(a < b ? a + "|" + b : b + "|" + a, { x: ix / il, y: iy / il });
+      }
+    });
 
     // ---- bonds ----
     view.edges.forEach(e => {
@@ -415,18 +446,17 @@
       const stroke = "#1a1d22", sw = e.axis ? BOLDW : SW;   // bold = biaryl axis
       const drawLine = (ox, oy) => el("line", { x1: x1 + ox, y1: y1 + oy, x2: x2 + ox, y2: y2 + oy,
         stroke, "stroke-width": sw, "stroke-linecap": "butt" }, gBonds);
-      if (e.order === 2) {
-        // ChemDraw double bond: full line + an inset shorter parallel line
+      // pick the perpendicular pointing to the ring interior (double bond inside)
+      let ox = px, oy = py;
+      const ins = (e.na.id != null && e.nb.id != null)
+        ? ringInside.get(e.na.id < e.nb.id ? e.na.id + "|" + e.nb.id : e.nb.id + "|" + e.na.id)
+        : null;
+      if (ins) { const isx = ins.x, isy = -ins.y; if (px * isx + py * isy < 0) { ox = -px; oy = -py; } }
+      if (e.order === 2 || e.order === 1.5 || e.type === "aromatic") {
         drawLine(0, 0);
-        const o = DGAP, s = 0.16;
-        el("line", { x1: x1 + px * o + ux * L * s, y1: y1 + py * o + uy * L * s,
-          x2: x2 + px * o - ux * L * s, y2: y2 + py * o - uy * L * s,
-          stroke, "stroke-width": SW, "stroke-linecap": "butt" }, gBonds);
-      } else if (e.order === 1.5 || e.type === "aromatic") {
-        drawLine(0, 0);
-        const o = DGAP, s = 0.16;
-        el("line", { x1: x1 + px * o + ux * L * s, y1: y1 + py * o + uy * L * s,
-          x2: x2 + px * o - ux * L * s, y2: y2 + py * o - uy * L * s,
+        const o = DGAP, s = 0.14;
+        el("line", { x1: x1 + ox * o + ux * L * s, y1: y1 + oy * o + uy * L * s,
+          x2: x2 + ox * o - ux * L * s, y2: y2 + oy * o - uy * L * s,
           stroke, "stroke-width": SW, "stroke-linecap": "butt" }, gBonds);
       } else {
         drawLine(0, 0);
@@ -455,9 +485,9 @@
         haloText(gAtoms, X, Y, (n.id === hydrideId) ? "H" : el_, FONT, 700, COLORS[el_] || "#23262b");
         glyphR = 0.16 * BL;
       }
-      // charges as full +/- symbols (offset by the fixed visible glyph radius)
-      if (showCharge) {
-        const q = (n.data.charge !== 0) ? n.data.charge : (n.data.charge_ionic || 0);
+      // formal charges only, and never on the metal or hydride (dative drawing)
+      if (showCharge && n.id !== metalId && n.id !== hydrideId) {
+        const q = n.data.charge || 0;
         if (q) drawCharge(gAtoms, X, Y, glyphR, q);
       }
     });
@@ -576,7 +606,7 @@
       document.querySelectorAll("[data-level]").forEach(b => b.classList.remove("active"));
       btn.classList.add("active");
       LEVEL = btn.getAttribute("data-level");
-      buildView(); relax(90, true); fit(); render();
+      buildView(); relax(90, true); alignCuH(); fit(); render();
     });
   });
   const playBtn = document.getElementById("btn-play");
@@ -585,7 +615,7 @@
     playBtn.textContent = running ? "▶ run" : "❚❚ paused";
     if (!running) render();
   });
-  document.getElementById("btn-relax").addEventListener("click", () => { relax(300, true); render(); });
+  document.getElementById("btn-relax").addEventListener("click", () => { relax(300, true); alignCuH(); render(); });
   document.getElementById("chk-sym").addEventListener("change", e => { enforceSym = e.target.checked; });
   document.getElementById("chk-wedge").addEventListener("change", e => { showWedge = e.target.checked; render(); });
   document.getElementById("chk-charge").addEventListener("change", e => { showCharge = e.target.checked; render(); });
@@ -595,7 +625,7 @@
   document.getElementById("btn-reset").addEventListener("click", () => {
     M.atoms.forEach(a => { const p = atom.get(a.id); p.x = a.x; p.y = a.y; p.vx = p.vy = 0; p.pinned = false; });
     sup.forEach(s => s.pinned = false);
-    buildView(); relax(90, true); fit(); render();   // relax like the initial load
+    buildView(); relax(90, true); alignCuH(); fit(); render();   // relax like the initial load
   });
   document.getElementById("btn-svg").addEventListener("click", () => {
     const w = W(), h = H();
@@ -617,13 +647,13 @@
   window.addEventListener("resize", () => { fit(); render(); });
 
   // ---------------------------------------------------------------- go
-  buildView(); relax(110, true); fit(); legend(); render();
+  buildView(); relax(110, true); alignCuH(); fit(); legend(); render();
   requestAnimationFrame(frame);
 
   // expose for headless testing / screenshots
   window.__metaldepict = {
-    relax: (n) => { relax(n || 200, true); render(); },
-    setLevel: (lv) => { LEVEL = lv; buildView(); relax(90, true); fit(); render(); },
+    relax: (n) => { relax(n || 200, true); alignCuH(); render(); },
+    setLevel: (lv) => { LEVEL = lv; buildView(); relax(90, true); alignCuH(); fit(); render(); },
     fit: () => { fit(); render(); },
     overlapScore, metrics, view: () => view, stop: () => { running = false; }
   };

diff --git a/metaldepict/src/depict.py b/metaldepict/src/depict.py
@@ -247,7 +247,7 @@ def build_depiction(complex_mol: Chem.Mol, info: dict, trex_desc: dict,
     cg = Chem.Mol(mol)
     cg.RemoveAllConformers()
     try:
-        rdCoordGen.AddCoords(cg)
+        rdCoordGen.AddCoords(cg)                       # clean layout (no stereo bias)
     except Exception:
         from rdkit.Chem import AllChem
         AllChem.Compute2DCoords(cg)
@@ -259,6 +259,26 @@ def build_depiction(complex_mol: Chem.Mol, info: dict, trex_desc: dict,
     cu_xy = np.array(coords[metal])
 
     depth = _pca_depth(mol)
+
+    # ---- wedge/dash from RDKit on real (sp3) stereocentres ----
+    # Assign stereo from the 3D conformer AFTER the 2D layout, then copy the
+    # chiral tags onto the (already laid-out) 2D copy and wedge there -- so the
+    # layout itself is never perturbed by stereo perception.
+    wedge_map: dict[tuple[int, int], str] = {}
+    try:
+        Chem.AssignStereochemistryFrom3D(mol)
+        for am, ac in zip(mol.GetAtoms(), cg.GetAtoms()):
+            ac.SetChiralTag(am.GetChiralTag())
+        Chem.AssignStereochemistry(cg, cleanIt=True, force=True)
+        Chem.WedgeMolBonds(cg, cg.GetConformer())
+        for b in cg.GetBonds():
+            d = b.GetBondDir()
+            if d == Chem.BondDir.BEGINWEDGE:
+                wedge_map[(b.GetBeginAtomIdx(), b.GetEndAtomIdx())] = "up"
+            elif d == Chem.BondDir.BEGINDASH:
+                wedge_map[(b.GetBeginAtomIdx(), b.GetEndAtomIdx())] = "down"
+    except Exception:
+        pass
 
     # ---- symmetry: canonical-rank equivalence classes ----
     ranks = list(Chem.CanonicalRankAtoms(mol, breakTies=False))
@@ -352,9 +372,14 @@ def build_depiction(complex_mol: Chem.Mol, info: dict, trex_desc: dict,
         ai, bi = b.GetBeginAtomIdx(), b.GetEndAtomIdx()
         btype, order = _bond_type(b)
         is_axis = bool(biaryl) and {ai, bi} == biaryl_set
+        wedge, a0 = "none", ai
+        if (ai, bi) in wedge_map:
+            wedge, a0 = wedge_map[(ai, bi)], ai
+        elif (bi, ai) in wedge_map:
+            wedge, a0 = wedge_map[(bi, ai)], bi
         bonds.append({
-            "a": ai, "b": bi, "a0": ai, "order": order, "type": btype,
-            "wedge": "none", "axis": is_axis,
+            "a": ai, "b": bi, "a0": a0, "order": order, "type": btype,
+            "wedge": wedge, "axis": is_axis,
         })
 
     return {
